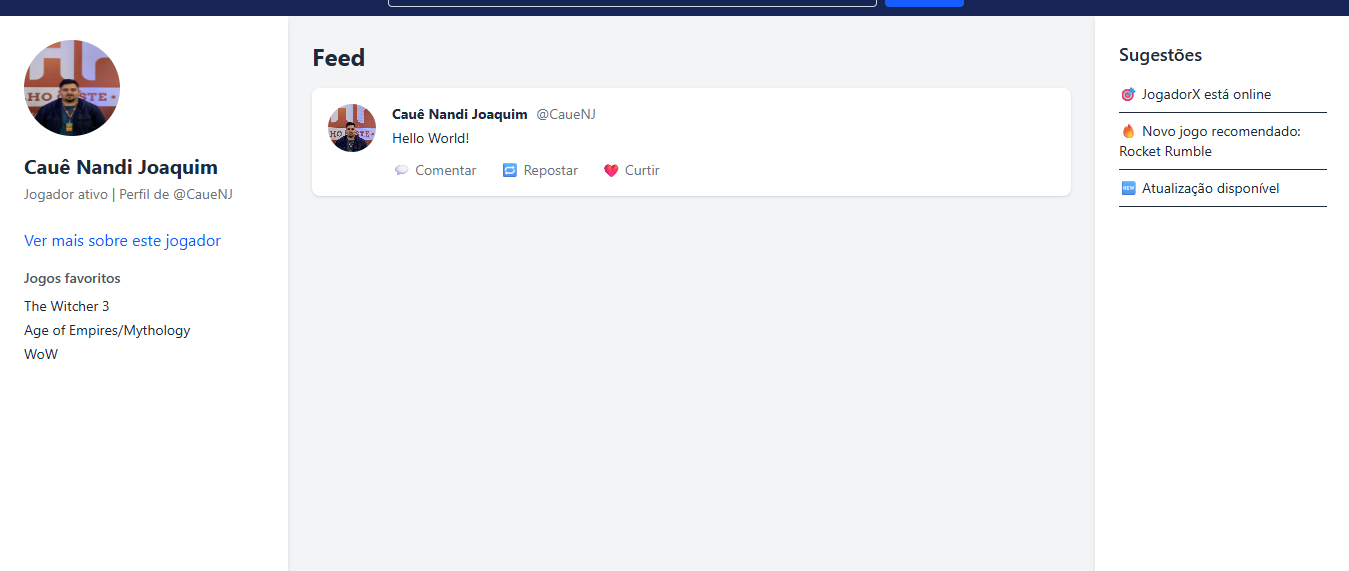
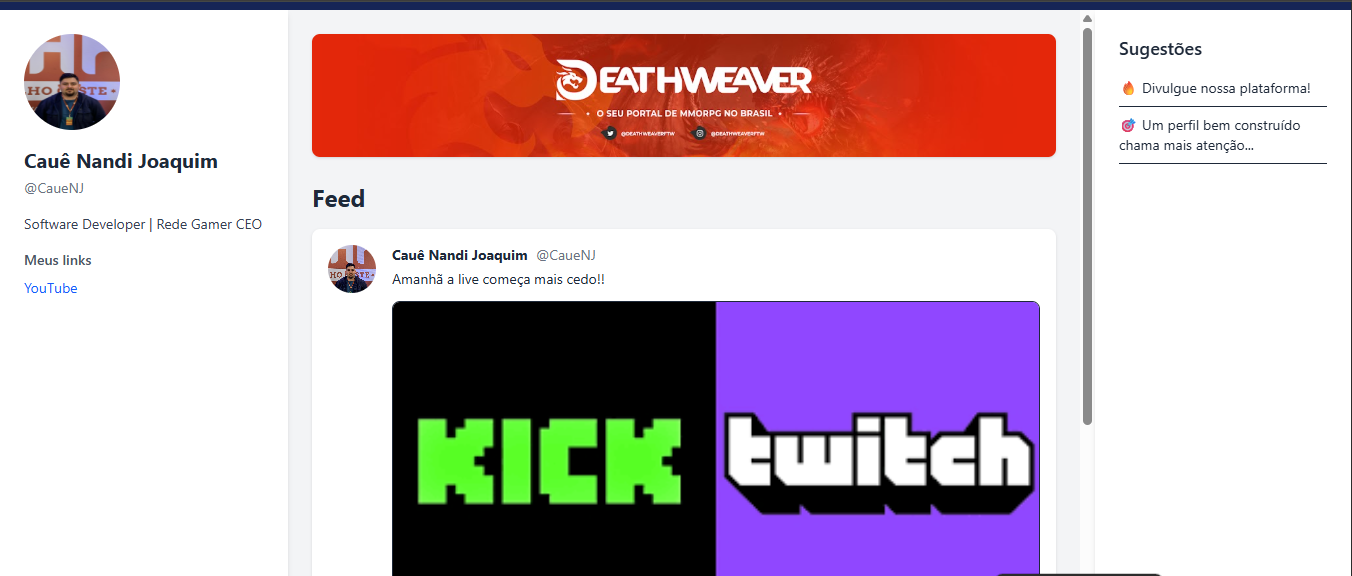
frontend perfil

diff --git a/frontend/src/pages/profile/profile.jsx b/frontend/src/pages/profile/profile.jsx
@@ -69,6 +69,15 @@ export default function Perfil() {
 
             {/* Feed */}
             <main className="flex-1 p-4 md:p-6 overflow-y-auto">
+                {profile?.banner && (
+                    <div className="w-full mb-6">
+                        <img
+                            src={profile.banner}
+                            alt="Banner do perfil"
+                            className="w-full max-h-60 object-cover rounded-lg shadow"
+                        />
+                    </div>
+                )}
                 <h1 className="text-2xl font-bold mb-4">Feed</h1>
 
                 <div className="space-y-4">
@@ -88,9 +97,9 @@ export default function Perfil() {
                                     <span className="text-gray-500 text-sm">@{post.username}</span>
                                 </div>
                                 <p className="text-sm text-gray-800 mt-1">{post.conteudo}</p>
-                                {post.urlImg && (
+                                {post.urlimg && (
                                     <img
-                                        src={post.urlImg}
+                                        src={post.urlimg}
                                         alt="Imagem do post"
                                         className="mt-3 rounded-lg w-full max-h-100 object-contain border"
                                     />

diff --git a/frontend/src/components/upperBar/upperBar.jsx b/frontend/src/components/upperBar/upperBar.jsx
@@ -58,9 +58,9 @@ export default function UpperBar() {
 
                 {/* Ícone do usuário no canto direito */}
                 <img
-                    src={"/assets/perfil_deslogado.png"}
+                    src={"/assets/menu-tres-barras-destacadas.png"}
                     alt="User"
-                    className="w-10 h-10 rounded-full cursor-pointer z-10"
+                    className="w-8 h-8 cursor-pointer z-10"
                     onClick={() => setSidebarOpen(true)}
                 />
 
